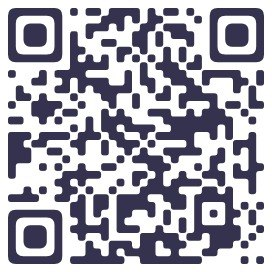
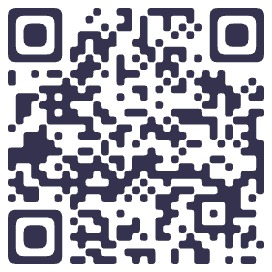
Make payment the primary CTA, update payment link and QR
- "Хочу научиться продавать" (hero + zapis) now links straight to
  the new payment link instead of just scrolling/opening Telegram
- Updated QR code image and payment link everywhere (both were the
  old placeholder link)
- Telegram/Instagram repositioned as the secondary option for
  people with questions, since paying is now the main path
- Removed the now-redundant duplicate "Оплатить онлайн" button,
  kept the QR as a compact note under the main CTA

Claude-Session: https://claude.ai/code/session_01V2s1YTuTw21Lg2ST1XV7t2

diff --git a/index.html b/index.html
@@ -65,8 +65,8 @@ a.navlink:hover{color:#f28a2e}
 <div class="price-deadline-tag" style="padding: 8px 16px; border: 1px solid rgba(242,138,46,0.5); background: rgba(242,138,46,0.1); border-radius: 999px; font-size: 15px; color: #f4f1ec; font-weight: 600;">Спеццена до 13 октября</div>
 </div>
 <div style="display: flex; flex-direction: column; gap: 14px; align-items: flex-start;">
-<a class="btn" href="#zapis" style="display: inline-flex; align-items: center; justify-content: center; min-height: 60px; padding: 0 40px; box-sizing: border-box; border-radius: 999px; background: linear-gradient(180deg, #ee7b2f, #c9480f); color: #ffffff; font-weight: 700; font-size: 18px; letter-spacing: 0.12em; text-transform: uppercase; box-shadow: 0 10px 30px rgba(226,90,20,0.30);">Хочу научиться продавать</a>
-<div style="font-size: 15px; line-height: 1.5; color: #9d9a94;">Напишите Оксане в <a href="https://t.me/Oxi071280" target="_blank" rel="noopener">Telegram</a> или <a href="https://www.instagram.com/oxi0712" target="_blank" rel="noopener">Instagram Direct</a> — расскажет о программе и стоимости. Instagram — запрещённая социальная сеть на территории РФ.</div>
+<a class="btn" href="https://securepayecom.com/sc/gYJHDMxYNAJEsRRN" target="_blank" rel="noopener" style="display: inline-flex; align-items: center; justify-content: center; min-height: 60px; padding: 0 40px; box-sizing: border-box; border-radius: 999px; background: linear-gradient(180deg, #ee7b2f, #c9480f); color: #ffffff; font-weight: 700; font-size: 18px; letter-spacing: 0.12em; text-transform: uppercase; box-shadow: 0 10px 30px rgba(226,90,20,0.30);">Хочу научиться продавать</a>
+<div style="font-size: 15px; line-height: 1.5; color: #9d9a94;">Остались вопросы? Пишите Оксане в <a href="https://t.me/Oxi071280" target="_blank" rel="noopener">Telegram</a> или <a href="https://www.instagram.com/oxi0712" target="_blank" rel="noopener">Instagram Direct</a>. Instagram — запрещённая социальная сеть на территории РФ.</div>
 <a href="guide.pdf" target="_blank" style="font-size: 15px; color: #d8d4cd; text-decoration: underline; text-underline-offset: 3px;">Не готовы сразу? Заберите бесплатный гайд-самопроверку →</a>
 </div>
 </div>
@@ -276,19 +276,17 @@ a.navlink:hover{color:#f28a2e}
 <div style="flex: 1 1 460px; min-width: 0; display: flex; flex-direction: column; gap: 26px;">
 <div style="font-size: 13px; letter-spacing: 0.3em; color: #f28a2e; font-weight: 700; text-transform: uppercase;">Следующий шаг</div>
 <h2 style="margin: 0; font-family: Lora,Georgia,serif; font-weight: 600; font-size: clamp(30px, 4.6vw, 50px); line-height: 1.1; color: #f4f1ec;">Готовы навести порядок в своих продажах?</h2>
-<p style="margin: 0; font-size: 19px; line-height: 1.6; color: #c9c5be;">Напишите Оксане: она расскажет о программе, стоимости и ответит на вопросы.</p>
+<p style="margin: 0; font-size: 19px; line-height: 1.6; color: #c9c5be;">Оплатите участие онлайн — это займёт пару минут.</p>
 <div class="price-deadline-tag" style="font-size: 15px; font-weight: 700; letter-spacing: 0.04em; color: #f28a2e;">Спеццена действует до 13 октября — дальше дороже. Старт потока — 19 октября.</div>
-<a class="btn" href="https://t.me/Oxi071280" target="_blank" rel="noopener" style="display: inline-flex; align-items: center; justify-content: center; align-self: flex-start; min-height: 60px; padding: 0 40px; box-sizing: border-box; border-radius: 999px; background: linear-gradient(180deg, #ee7b2f, #c9480f); color: #ffffff; font-weight: 700; font-size: 18px; letter-spacing: 0.12em; text-transform: uppercase; box-shadow: 0 10px 30px rgba(226,90,20,0.30);">Хочу научиться продавать</a>
+<a class="btn" href="https://securepayecom.com/sc/gYJHDMxYNAJEsRRN" target="_blank" rel="noopener" style="display: inline-flex; align-items: center; justify-content: center; align-self: flex-start; min-height: 60px; padding: 0 40px; box-sizing: border-box; border-radius: 999px; background: linear-gradient(180deg, #ee7b2f, #c9480f); color: #ffffff; font-weight: 700; font-size: 18px; letter-spacing: 0.12em; text-transform: uppercase; box-shadow: 0 10px 30px rgba(226,90,20,0.30);">Хочу научиться продавать</a>
+<div style="width: 100%; max-width: 460px; box-sizing: border-box; padding: 18px 22px; background: #151518; border: 1px solid rgba(255,255,255,0.08); border-radius: 20px; display: flex; align-items: center; gap: 18px;">
+<img src="qr-pay.jpg" alt="QR-код для оплаты" style="display: block; width: 72px; height: 72px; border-radius: 10px; flex: 0 0 auto;">
+<div style="font-size: 15px; line-height: 1.4; color: #c9c5be;">Или отсканируйте QR-код, чтобы перейти к оплате с телефона.</div>
+</div>
 <div style="display: flex; flex-direction: column; gap: 12px; max-width: 460px;">
+<div style="font-size: 15px; color: #9d9a94;">Остались личные вопросы? Напишите Оксане:</div>
 <a class="pill" href="https://t.me/Oxi071280" target="_blank" rel="noopener" style="display: flex; align-items: center; justify-content: center; min-height: 56px; padding: 0 24px; box-sizing: border-box; border: 1px solid rgba(242,138,46,0.55); border-radius: 999px; background: rgba(255,255,255,0.03); color: #ece8e2; font-size: 16px; font-weight: 700; letter-spacing: 0.16em; text-transform: uppercase;">Telegram • личные сообщения</a>
 <a class="pill" href="https://www.instagram.com/oxi0712" target="_blank" rel="noopener" style="display: flex; align-items: center; justify-content: center; min-height: 56px; padding: 0 24px; box-sizing: border-box; border: 1px solid rgba(242,138,46,0.55); border-radius: 999px; background: rgba(255,255,255,0.03); color: #ece8e2; font-size: 16px; font-weight: 700; letter-spacing: 0.16em; text-transform: uppercase;">Instagram • Direct</a>
-</div>
-<div style="width: 100%; max-width: 460px; box-sizing: border-box; padding: 22px; background: #151518; border: 1px solid rgba(255,255,255,0.08); border-radius: 20px; display: flex; align-items: center; gap: 18px;">
-<img src="qr-pay.jpg" alt="QR-код для оплаты" style="display: block; width: 84px; height: 84px; border-radius: 10px; flex: 0 0 auto;">
-<div style="display: flex; flex-direction: column; gap: 8px;">
-<div style="font-size: 13px; letter-spacing: 0.16em; color: #f28a2e; font-weight: 700; text-transform: uppercase;">Уже знаете, что хотите?</div>
-<a class="pill" href="https://securepayecom.com/sc/buQaQeoFDcBOSMuh" target="_blank" rel="noopener" style="display: inline-flex; align-items: center; justify-content: center; min-height: 48px; padding: 0 22px; box-sizing: border-box; border: 1px solid rgba(242,138,46,0.55); border-radius: 999px; background: rgba(242,138,46,0.1); color: #ece8e2; font-size: 14px; font-weight: 700; letter-spacing: 0.1em; text-transform: uppercase; width: fit-content;">Оплатить онлайн</a>
-</div>
 </div>
 </div>
 <div style="position: relative; flex: 0 1 300px; width: 300px; max-width: 100%; height: 640px; box-sizing: border-box; border-radius: 24px; overflow: hidden; box-shadow: 0 30px 70px rgba(0,0,0,0.4);">
